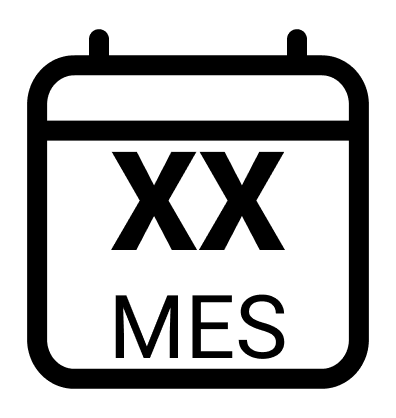
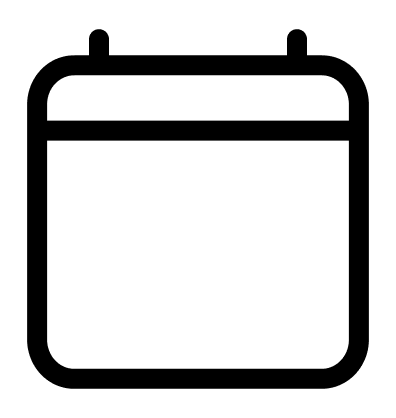
Segundo Sprint. Modificación contenido en datos.json de eventos, así como calendario. Actualización de uso de datos.json

Changed region(s): [[0.2727, 0.3421, 0.7273, 0.622], [0.4848, 0.6842, 0.7273, 0.8708], [0.2727, 0.6842, 0.4545, 0.8708]]

diff --git a/html/AgendaPage.html b/html/AgendaPage.html
@@ -23,31 +23,35 @@
 <script>
     $(document).ready(function (){
         function getJsonEvents(){
-            $.getJSON("../json/agenda.json", function (json){
-                $.each(json.events, function (i){
+            $.getJSON("../json/datos.json", function (json){
+                $.each(json.eventos, function (i){
                     var event = "<article class=\"evento\">\n" +
-                    "            <div class=\"eventoInfo\" id=evento" + i + ">" +
-                    "            <div class=\"calendarioInfo\">" +
-                    "                <img class=\"imagenCalendario\" src=\"images/calendario.png\" alt=\"imagen calendario\">" +
-                    "                <div class=\"infoEvento\">\n" +
-                    "                       <p class=\"nombreEvento\">" + this.name + "</p>" +
-                    "                       <p class=\"textoEvento\">" + this.day + "</p>" +
-                    "                       <p class=\"textoEvento\">" + this.place + "</p>" +
-                    "                       <p class=\"textoEvento\">" + this.municipality +
-                    "                 </div>\n" +
-                    "                 </div>\n" +
-                    "                <button type=\"button\" class=\"btn\"  id=evento data-toggle=\"dropdown\">\n" +
-                    "                        <img src=\"images/FlechaAbajo.png\" class=\"flechaAbajoMunicipio\" alt=\"Información Evento\">\n" +
-                    "                 </button>\n" +
-                    "            </div>\n" +
-                    "<div class='apartadoDescripcionEvento' id=apartadoevento" + i + ">" +
-                    "                <div class=\"paginaEvento\" style=\"background-image: url(" + this.descriptionImage + ");\">\n" +
-                    "                    <p class='textoDescripcionEvento'>" + this.descriptionText + "</p>" +
-
-                    "                </div>\n" +
-                    "</div>";
-                    "</article>"
-
+                    "               <div class=\"eventoInfo\" id=evento" + i + ">" +
+                    "                   <div class=\"calendarioInfo\">" +
+                    "                       <div class=\"calendarioConFecha\">" +
+                    "                           <img class=\"imagenCalendario\" src=\"images/calendario.png\" alt=\"imagen calendario\">" +
+                    "                           <div class=\"textoCalendario\">" +
+                    "                               <div class=\"textoDia\">" + this.dia + "</div>" +
+                    "                               <div class=\"textoMes\">" + this.mes + "</div>" +
+                    "                           </div>\n" +
+                    "                       </div>\n" +
+                    "                       <div class=\"infoEvento\">\n" +
+                    "                           <p class=\"nombreEvento\">" + this.nombre + "</p>" +
+                    "                           <p class=\"textoEvento\">" + this.fecha + "</p>" +
+                    "                           <p class=\"textoEvento\">" + this.lugar + "</p>" +
+                    "                           <p class=\"textoEvento\">" + this.municipio +
+                    "                       </div>\n" +
+                    "                   </div>\n" +
+                    "                   <button type=\"button\" class=\"btn\"  id=evento data-toggle=\"dropdown\">\n" +
+                    "                       <img src=\"images/FlechaAbajo.png\" class=\"flechaAbajoMunicipio\" alt=\"Información Evento\">\n" +
+                    "                   </button>\n" +
+                    "               </div>\n" +
+                    "               <div class='apartadoDescripcionEvento' id=apartadoevento" + i + ">" +
+                    "                   <div class=\"paginaEvento\" style=\"background-image: url(" + this.url + ");\">\n" +
+                    "                       <p class='textoDescripcionEvento'>" + this.descripcion + "</p>" +
+                    "                   </div>\n" +
+                    "               </div>" +
+                    "            </article>"
 
                     $(".eventos .listaEventos").append(event);
                 });

diff --git a/css/agendaStyle.css b/css/agendaStyle.css
@@ -17,9 +17,41 @@ ul, ol {
     background: #C4C4C5;
     vertical-align: middle;
 }
+/*////////// Imagen Calendario //////////*/
+.calendarioConFecha{
+    position: relative;
+    display: inline-block;
+    text-align: center;
+
+}
 .imagenCalendario{
     position: relative;
     align-self: center;
+}
+.textoMes{
+    font-family: 'Helvetica', serif;
+    font-style: normal;
+    font-weight: 400;
+    text-align: center;
+    position: absolute;
+
+    color: #000000;
+}
+.textoDia{
+    font-family: 'Helvetica',serif;
+    font-style: normal;
+    font-weight: 800;
+    text-align: center;
+    position: absolute;
+
+    color: #000000;
+}
+.textoCalendario{
+    position: absolute;
+    top: 50%;
+    left: 50%;
+    transform: translate(-50%, -50%);
+
 }
 .calendarioInfo{
     vertical-align: middle;
@@ -95,10 +127,23 @@ ul, ol {
     .eventoInfo {
         height: 15rem;
     }
+    /*////////// Imagen Calendario //////////*/
     .imagenCalendario{
         width: 11.4rem;
         height: 12.04rem;
         margin-top:1rem;
+    }
+    .textoMes{
+        font-size: 2.75em;
+        line-height: 2rem;
+        top: 2.5rem;
+        left: -2rem;
+    }
+    .textoDia{
+        font-size: 4.31em;
+        line-height: 5rem;
+        top: -2rem;
+        left: -2.2rem;
     }
     .calendarioInfo{
         margin-left: 6rem;
@@ -149,10 +194,23 @@ ul, ol {
     .eventoInfo {
         height: 12rem;
     }
+    /*////////// Imagen Calendario //////////*/
     .imagenCalendario{
         width: 9.94rem;
         height: 10.63rem;
         margin-top:1rem;
+    }
+    .textoMes{
+        font-size: 2.5em;
+        line-height: 2rem;
+        top: 2.5rem;
+        left: -2rem;
+    }
+    .textoDia{
+        font-size: 4em;
+        line-height: 5rem;
+        top: -2rem;
+        left: -2.2rem;
     }
     .calendarioInfo{
         margin-left: 2rem;
@@ -208,10 +266,23 @@ ul, ol {
     .eventoInfo {
         height: 12rem;
     }
+    /*////////// Imagen Calendario //////////*/
     .imagenCalendario{
         width: 8.94rem;
         height: 9.63rem;
         margin-top:1rem;
+    }
+    .textoMes{
+        font-size: 2.2em;
+        line-height: 2rem;
+        top: 2.25rem;
+        left: -1.75rem;
+    }
+    .textoDia{
+        font-size: 4em;
+        line-height: 5rem;
+        top: -2rem;
+        left: -2.2rem;
     }
     .calendarioInfo{
         margin-left: 2rem;
@@ -243,7 +314,7 @@ ul, ol {
 
     /*////////// Desplegable //////////*/
     .paginaEvento {
-        height: 25rem;
+        height: 27rem;
     }
     .apartadoDescripcionEvento{
         top: -0.5rem;
